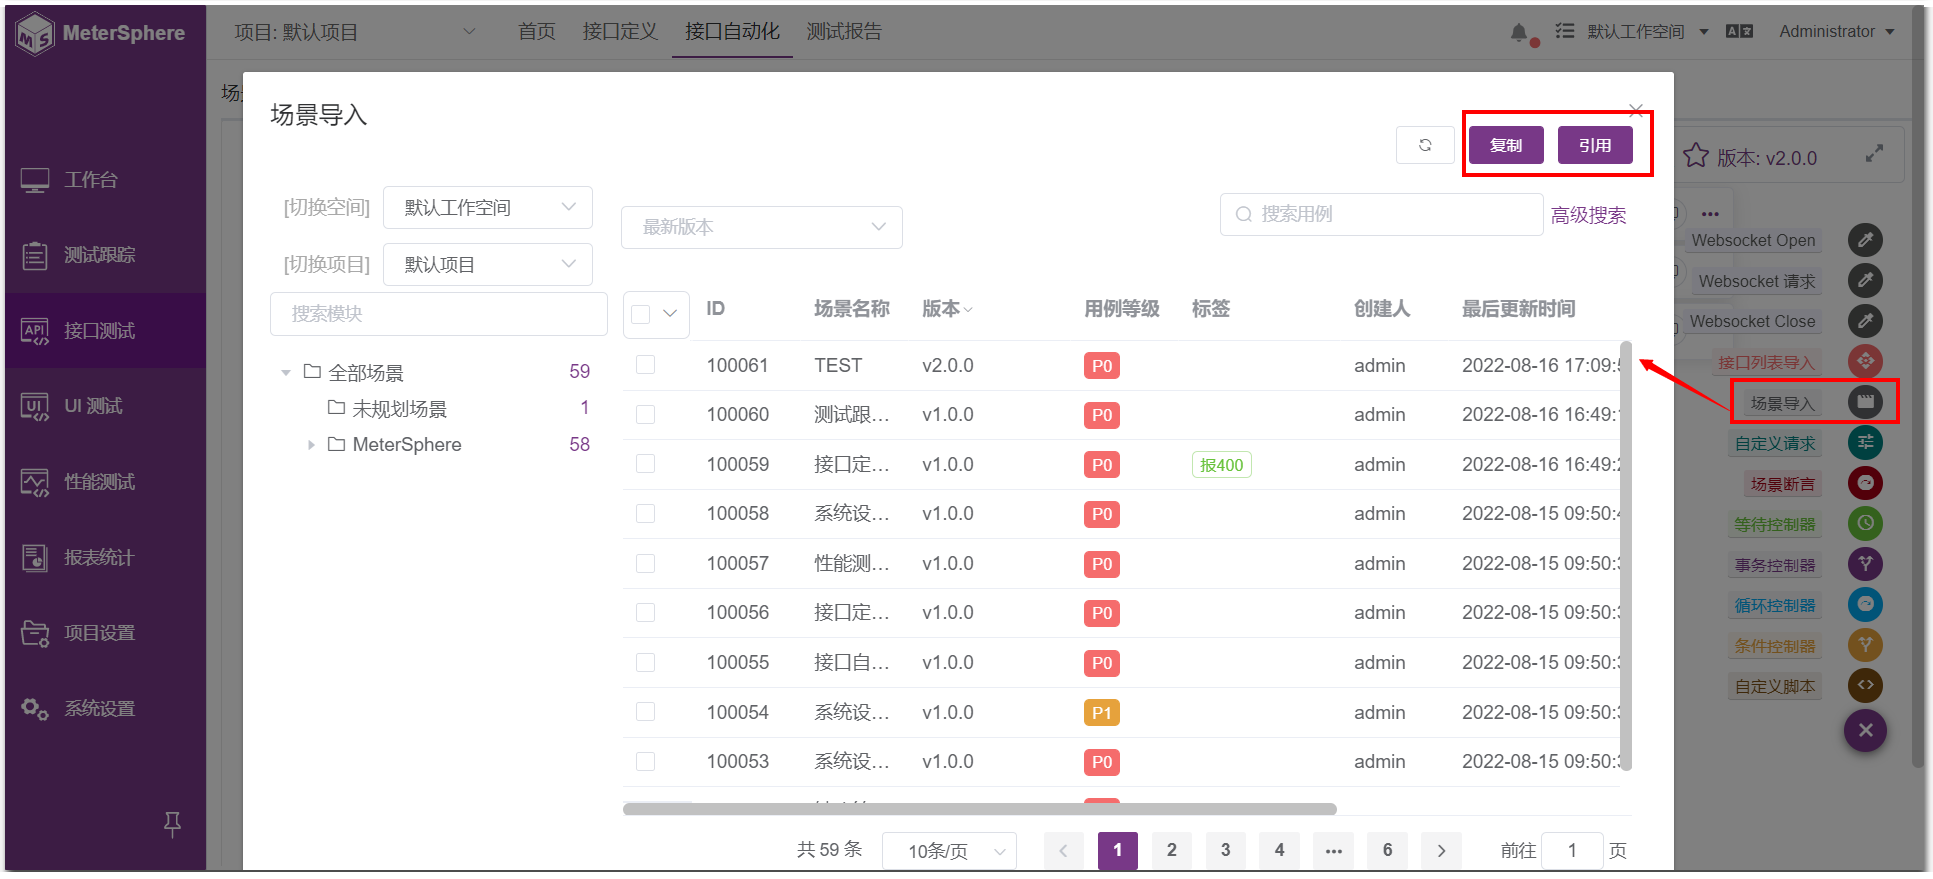
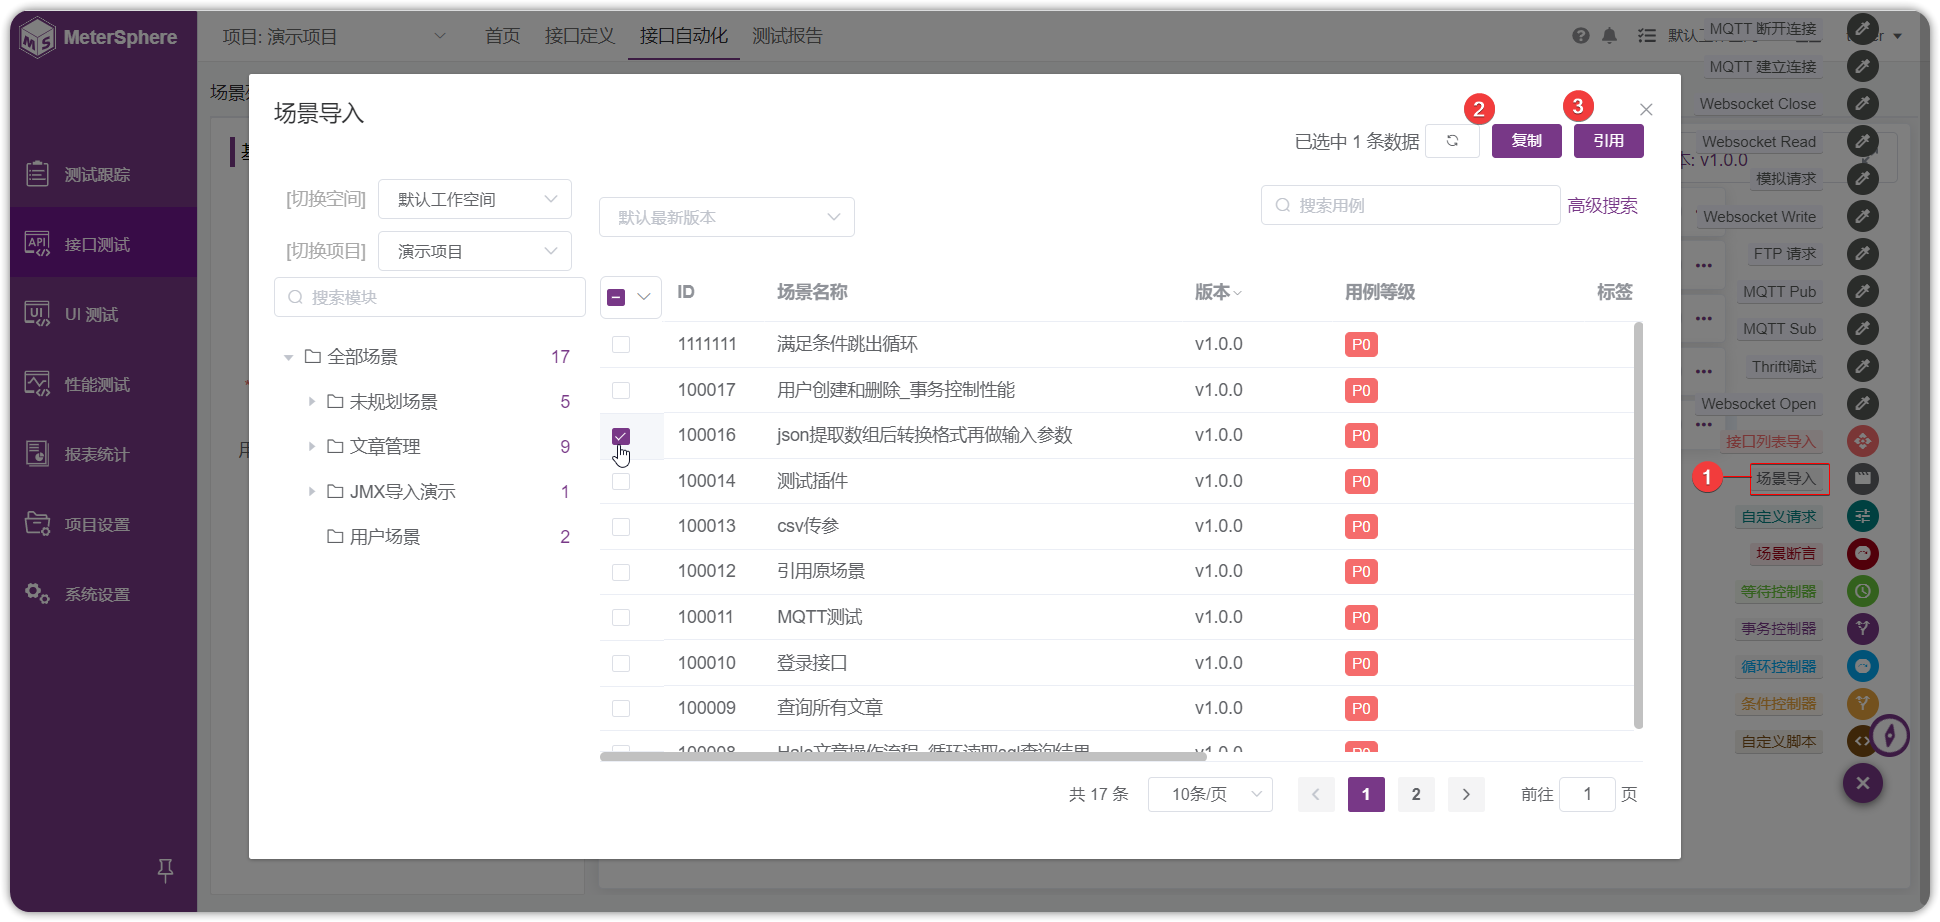
modified:   docs/user_manual/api_test/api_definition.md 	modified:   docs/user_manual/api_test/api_step.md

diff --git a/docs/user_manual/api_test/api_step.md b/docs/user_manual/api_test/api_step.md
@@ -309,88 +309,94 @@
 
 ## 1 接口列表导入
 !!! ms-abstract "" 
-    通过接口列表导入功能，可以直接添加接口定义功能中已维护好的接口或接口下的用例，减少重复填写接口请求参数的情况。
+    通过接口列表导入功能，可以直接添加接口定义功能中已维护好的接口或接口下的用例，减少重复填写接口请求参数的情况。<br />
 
 ### 1.1 导入接口
-![!导入接口](../../img/api/导入接口1.png)
+!!! ms-abstract "" 
+    接口自动化场景右下角菜单【+】选择 ① 【接口列表导入】，从接口列表可以选择 ② API 里面的数据，使用方式支持 ③【复制】模式。 <br />【复制】方式导入的用例，当原用例发生变化时，场景中导入的用例不会改变；<br />
+![!导入接口](../../img/api/接口导入lb.png){ width="900px" }
 
-![!导入接口](../../img/api/导入接口2.png)
+![!导入接口](../../img/api/导入选择api.png){ width="900px" }
 
-![!导入接口](../../img/api/导入接口3.png)
 
 ### 1.2 导入用例 
-![!导入用例](../../img/api/导入用例.png)
+!!! ms-abstract "" 
+    接口自动化场景右下角菜单【+】选择【接口列表导入】，从接口列表可以选择 ① CASE 里面的数据，使用方式支持 ②【复制】③【引用】两种模式。 <br />【复制】方式导入的用例，当原用例发生变化时，场景中导入的用例不会改变；<br />【引用】方式导入的用例，当原用例发生变化时，场景中导入的用例也会随之改变。
+![!导入用例](../../img/api/导入复制引用.png){ width="900px" }
 
-!!! info "说明"
-    导入用例时提供【复制】和【引用】两种方式。通过【复制】方式导入的用例，当原用例发生变化时，场景中导入的用例不会改变；通过【引用】方式导入的用例，当原用例发生变化时，场景中导入的用例也会随之改变。
+![!导入接口](../../img/api/接口导入展示.png){ width="900px" }
 
 ## 2 自定义请求
-通过添加自定义请求，用户可以自由编辑该请求的详细信息，该请求不需要事先存在于接口定义中。目前支持 HTTP、TCP、DUBBO、SQL 等不同类型的请求。
-![!添加自定义请求](../../img/api/添加自定义请求.png)
+!!! ms-abstract "" 
+    通过添加自定义请求，用户可以自由编辑该请求的详细信息，该请求不需要事先存在于接口定义中。接口自动化场景右下角菜单【+】选择 ①【自定义请求】，目前支持 HTTP、TCP、DUBBO、SQL 等不同类型的请求。可以对接口进行调试操作，使用方法同[接口定义](api_definition.md)，调试完成后点击窗口下方【保存】按钮，即可完成再场景内引用自定义请求。
+![!添加自定义请求](../../img/api/自定义请求.png){ width="900px" }
+![!添加自定义请求](../../img/api/场景自定义请求.png){ width="900px" }
 
 ## 3 自定义脚本
-自定义脚本与前后置脚本使用方式类似，但是可以独立添加，不需要依赖于某个已有请求作为其子步骤。目前支持的脚本语言及内置变量请参考 [前置脚本](#_2)。
-![!添加自定义脚本](../../img/api/添加自定义脚本.png)
+!!! ms-abstract "" 
+    自定义脚本与前后置脚本使用方式类似，但是可以独立添加，不需要依赖于某个已有请求作为其子步骤。接口自动化场景右下角菜单【+】选择 ①【自定义脚本】。目前支持的脚本语言及内置变量请参考 [前置脚本](#1-前置脚本)。
+![!添加自定义脚本](../../img/api/场景自定义脚本.png){ width="900px" }
 
 ## 4 场景导入
-用户可以维护一些基础、通用场景，通过场景导入功能，可以直接将已有的场景添加到当前场景中，减少重复工作，提高场景的复用性。
-![!场景导入](../../img/api/场景导入.png)
+!!! ms-abstract "" 
+    用户可以维护一些基础、通用场景，通过场景导入功能，可以直接将已有的场景添加到当前场景中，减少重复工作，提高场景的复用性。接口自动化场景右下角菜单【+】选择 ①【场景导入】使用方式支持 ②【复制】③【引用】两种模式。 <br />
+    【复制】方式导入的场景，当原场景发生变化时，场景中导入的场景不会改变。<br />【引用】方式导入的场景，当原场景发生变化时，场景中导入的场景也会随之改变。
+![!场景导入](../../img/api/场景导入.png){ width="900px" }
+![!场景导入](../../img/api/列表场景导入.png){ width="900px" }
 
-!!! info "说明"
-    导入场景时提供【复制】和【引用】两种方式。通过【复制】方式导入的场景，当原场景发生变化时，场景中导入的场景不会改变；通过【引用】方式导入的场景，当原场景发生变化时，场景中导入的场景也会随之改变。
 
 ## 5 条件控制器
-当条件控制器中配置的条件满足时，条件控制器下的子步骤才会执行，否则子步骤会被跳过。
-![!添加条件控制器](../../img/api/添加条件控制器.png)
+!!! ms-abstract "" 
+    当条件控制器中配置的条件满足时，条件控制器下的子步骤才会执行，否则子步骤会被跳过。接口自动化场景右下角菜单【+】选择 ①【条件控制器】判断支持 ② 选择等于、不等于、包含、不包含、大于、小于、空、非空。选中条件控制器，该判断下支持添加【+】菜单下所有引用类型。
+![!添加条件控制器](../../img/api/条件控制器使用.png){ width="900px" }
 
 ## 6 循环控制器
-通过使用循环控制器，可以重复执行循环控制器下的子步骤，目前 MeterSphere 提供了【次数循环】、【ForEach 循环】和【While 循环】三种循环方式。
-![!添加循环控制器](../../img/api/添加循环控制器.png)
+!!! ms-abstract "" 
+    通过使用循环控制器，可以重复执行循环控制器下的子步骤。接口自动化场景右下角菜单【+】选择 ①【循环控制器】支持 ② 选用【次数循环】、【ForEach 循环】和【While 循环】。
+![!添加循环控制器](../../img/api/循环控制器.png){ width="900px" }
 
 ### 6.1 次数循环 
-次数循环支持自定义设置循环次数、循环间隔等。
-![!次数循环](../../img/api/次数循环.png)
+!!! ms-abstract "" 
+    次数循环支持自定义设置循环次数、循环间隔等。<br />
+    【循环次数】：该循环控制器下的子步骤总共执行的次数。<br />
+    【循环间隔】：每次执行间的时间间隔，以毫秒为单位。<br />
+    【成功后是否继续循环】：仅循环控制器下存在一个请求时可以关闭。当关闭时，若循环控制器下的请求是成功状态，则立即终止循环，无论有没有达到循环次数。可以用在异步请求后轮询查询执行结果的场景，当查询结果符合预期时终止循环，避免多余的查询操作。
+![!次数循环](../../img/api/次数循环1.png)   { width="900px" }
 
-!!! info "参数说明"
-    1. **循环次数**：该循环控制器下的子步骤总共执行的次数。
-    2. **循环间隔**：每次执行间的时间间隔，以毫秒为单位。
-    3. **成功后是否继续循环**：仅循环控制器下存在一个请求时可以关闭。当关闭时，若循环控制器下的请求是成功状态，则立即终止循环，无论有没有达到循环次数。可以用在异步请求后轮询查询执行结果的场景，当查询结果符合预期时终止循环，避免多余的查询操作。
-
-!!! info "示例"
+!!! ms-abstract "示例"
     开启【成功后继续循环】，循环总共执行了 5 次。
-    ![!开启成功后继续循环](../../img/api/开启成功后继续循环.png)
+    ![!开启成功后继续循环](../../img/api/开启成功循环.png) { width="900px" }
     
     关闭【成功后继续循环】，由于循环下的请求第一次便执行成功，循环仅执行了 1 次。
-    ![!关闭成功后继续循环](../../img/api/关闭成功后继续循环.png)
+    ![!关闭成功后继续循环](../../img/api/关闭成功循环.png) { width="900px" }
 
 ### 6.2 ForEach 循环 
-ForEach 循环一般配合列表变量使用，例如存在 `ID_1`，`ID_2`，`ID_3` 形式的一组变量时，可以通过 ForEach 循环使用其中每个 ID 发送特定请求。
-![!ForEach循环](../../img/api/ForEach循环.png)
+!!! ms-abstract ""
+    ForEach 循环一般配合列表变量使用，例如存在 `ID_1`，`ID_2`，`ID_3` 形式的一组变量时，可以通过 ForEach 循环使用其中每个 ID 发送特定请求。<br />
+    【输出变量名称】：在循环中可以通过该变量引用到列表变量中当前迭代的变量值。<br />
+    【输入变量前缀】：列表变量的变量前缀。<br />
+    【循环间隔】：每次执行间的时间间隔，以毫秒为单位。
+![!ForEach循环](../../img/api/ForEach.png){ width="900px" }
 
-!!! info "参数说明"
-    1. **输出变量名称**：在循环中可以通过该变量引用到列表变量中当前迭代的变量值。
-    2. **输入变量前缀**：列表变量的变量前缀。
-    3. **循环间隔**：每次执行间的时间间隔，以毫秒为单位。
-
-!!! info "示例"
-    在场景变量中设置列表变量 ID，列表值为`ID_1`，`ID_2`，`ID_3`。
-    ![!ForEach循环](../../img/api/foreach列表.png)
+!!! ms-abstract "示例"
+    在场景变量中设置列表变量 id，列表值为`1`，`2`，`3`。
+    ![!ForEach循环](../../img/api/添加变量.png){ width="900px" }
     
     遍历场景变量中的列表变量，在【前置脚本】中打印列表变量中的每个值。
-    ![!ForEach循环](../../img/api/foreach遍历列表.png)
+    ![!ForEach循环](../../img/api/设置fe循环条件.png){ width="900px" }
     
     循环次数与列表长度相同，且输出列表变量中的每个值。
-    ![!ForEach循环](../../img/api/foreach结果.png)
+    ![!ForEach循环](../../img/api/循环结果.png){ width="900px" }
     
 ### 6.3 While 循环 
-While 循环更为灵活，当配置的条件满足时循环会一直进行。
+!!! ms-abstract ""
+    While 循环更为灵活，当配置的条件满足时循环会一直进行。<br />
+    【变量】：要进行判断的变量。<br />
+    【判断条件】：变量与期望值的比较方式。<br />
+    【值】：要对变量进行判断的值。<br />
+    【循环超时时间】：由于 while 循环的特殊性，当条件满足时将会一直循环，为了避免死循环的情况出现，用户可以配置循环超时时间，到超过该时间后，不管循环条件是否满足，循环都将被终止。
 ![!While循环](../../img/api/While循环.png)
 
-!!! info "参数说明"
-    1. **变量**：要进行判断的变量。
-    2. **判断条件**：变量与期望值的比较方式。
-    3. **值**：要对变量进行判断的值。
-    4. **循环超时时间**：由于 while 循环的特殊性，当条件满足时将会一直循环，为了避免死循环的情况出现，用户可以配置循环超时时间，到超过该时间后，不管循环条件是否满足，循环都将被终止。
 
 !!! info "示例"
       在场景变量中设置常量变量 NUM，值为5。

diff --git a/docs/user_manual/api_test/api_definition.md b/docs/user_manual/api_test/api_definition.md
@@ -1,6 +1,6 @@
 ## 1 概述
 !!! ms-abstract "" 
-	接口定义展示当前项目的所有接口数据，包含①接口模块树、②api接口列表、③接口CASE列表、④ 文档四个部分。
+	接口定义展示当前项目的所有接口数据，包含 ① 接口模块树、② api接口列表、③ 接口CASE列表、④ 文档四个部分。
 ![!接口定义](../../img/api/definition/接口定义.png){ width="900px" }
 
 ## 2 接口管理
